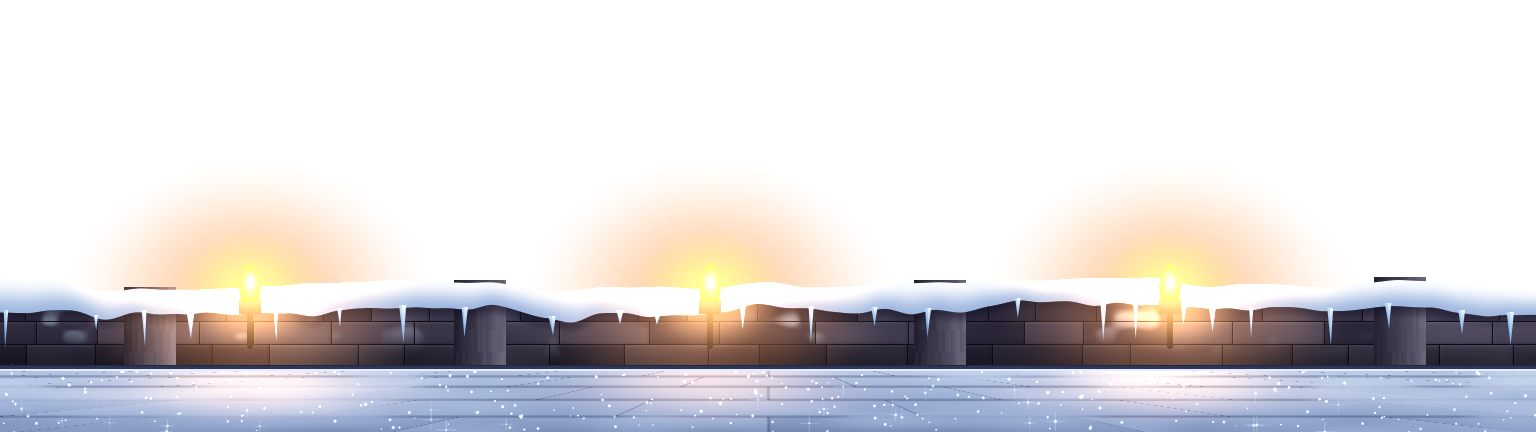
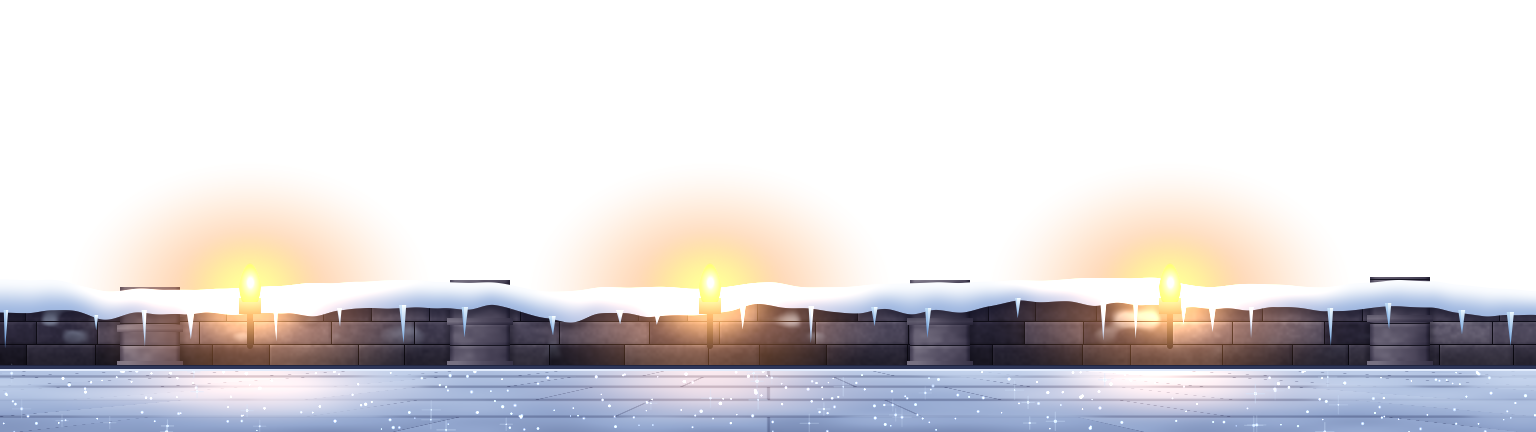
fix(stage1): shaded stone pillars and per-block wall variation
Pillars get cylindrical shading, ashlar courses with mortar, capstone and
plinth (the per-column hash caused vertical smearing). Wall blocks get wider
tone range, stronger bevel and grain. Update L9 doc for the layered stage1.

Claude-Session: https://claude.ai/code/session_01Y9XV58RY4sDZejHydTbcae

diff --git a/scripts/art/gen_stages.py b/scripts/art/gen_stages.py
@@ -699,11 +699,12 @@ def s1_quarry():
     wall = Courses(9, 23, 46, 100, FLOOR, 7)
     rock = Ramp([(0, (22, 20, 32)), (.35, (46, 42, 62)), (.7, (84, 78, 98)), (1, (136, 130, 146))])
     damp = FBM(72, [(150, 70, 0.6), (50, 24, 0.4)])
+    blkgrain = FBM(77, [(6, 5, 0.6), (3, 3, 0.4)])
     frost = FBM(73, [(70, 46, 0.5), (24, 16, 0.5)])
 
     def wfn(y, xa, xb):
         info = wall.row(y, xa, xb)
-        dn, fn_ = damp.row(y), frost.row(y)
+        dn, fn_, gg = damp.row(y), frost.row(y), blkgrain.row(y)
         rs, gs, bs = [], [], []
         ao = 0.62 + 0.38 * smoothstep(0, 40, FLOOR - y)
         for i, x in enumerate(range(xa, xb)):
@@ -714,20 +715,50 @@ def s1_quarry():
             if lt <= -1:
                 c = (14, 12, 22)
             else:
-                base = 0.28 + tone * 0.32 + lt * 0.22 + (dn[x] - 0.5) * 0.32
+                base = 0.2 + tone * 0.5 + lt * 0.3 + (dn[x] - 0.5) * 0.3 + (gg[x] - 0.5) * 0.16
                 c = rock(base)
                 fr = smoothstep(0.62, 0.8, fn_[x]) * (1 - smoothstep(top[x] + 20, top[x] + 70, y)) * 0.55
                 c = lerpc(c, (200, 220, 244), fr)
             rs.append(c[0] * ao), gs.append(c[1] * ao), bs.append(c[2] * ao)
         return rs, gs, bs
     L.draw(0, min(top) - 2, W, FLOOR, cov_below(top), sh_rows(wfn))
-    # buttresses (the snow cap below is drawn over their tops)
+    # pillars: cylindrical shaft, ashlar courses with per-course tone, projecting cap and plinth
+    pgrain = FBM(76, [(18, 12, 0.6), (7, 5, 0.4)])
     for bx in (150, 480, 940, 1400):
         y0 = int(top[bx]) - 8
-        L.draw(bx - 26, y0, bx + 26, FLOOR,
-               cov_rect(bx - 26, y0, bx + 26, FLOOR),
-               sh_px(lambda x, y, bx=bx: lerpc((26, 24, 40), (122, 116, 138),
-                                               clamp(0.5 + (x - bx) / 70.0 + (hash01(x // 3, y // 22, 4) - .5) * .12) ** 1.2)))
+        hw = 30
+        # soft contact shadow on the wall either side
+        L.draw(bx - hw - 8, y0 + 30, bx + hw + 8, FLOOR,
+               lambda y, xa, xb, bx=bx: [0.32 * (1 - smoothstep(hw, hw + 8, abs(x + 0.5 - bx))) for x in range(xa, xb)],
+               sh_flat((10, 9, 20)))
+
+        def pfn(y, xa, xb, bx=bx):
+            gr = pgrain.row(y)
+            k, yy = divmod(FLOOR - 1 - y, 22)
+            tone = hash01(k, bx, 12)
+            rs, gs, bs = [], [], []
+            for x in range(xa, xb):
+                u = (x + 0.5 - bx) / hw
+                shaft = math.sqrt(max(0.0, 1 - u * u))
+                lit = 0.5 + 0.5 * (-u * 0.55 + shaft * 0.6) - 0.1
+                val = 0.3 + 0.62 * clamp(lit) + (tone - 0.5) * 0.14 + (gr[x] - 0.5) * 0.2
+                if yy < 1:
+                    val = 0.02
+                elif yy >= 19:
+                    val += 0.1 * (yy - 18) / 3.0
+                elif yy < 4:
+                    val -= 0.08 * (4 - yy) / 3.0
+                val -= 0.22 * smoothstep(0.82, 1.0, abs(u))
+                c = rock(val)
+                rs.append(c[0]), gs.append(c[1]), bs.append(c[2])
+            return rs, gs, bs
+        L.draw(bx - hw, y0, bx + hw, FLOOR, cov_rect(bx - hw, y0, bx + hw, FLOOR), sh_rows(pfn))
+        # slim shadowed capstone under the snow and a plinth line at the foot
+        cy = int(top[bx]) + 30
+        for (yy0, yy1) in ((cy, cy + 7), (FLOOR - 7, FLOOR)):
+            L.draw(bx - hw - 3, yy0, bx + hw + 3, yy1, cov_rect(bx - hw - 3, yy0, bx + hw + 3, yy1),
+                   sh_px(lambda x, y, bx=bx, yy0=yy0: rock(
+                       0.4 + 0.5 * clamp(0.62 - (x - bx) / (2.0 * hw)) - 0.25 * clamp((y - yy0 - 3) / 4.0))))
     # snow cap with soft shadowed underside
     cap = FBM(74, [(80, 30, 0.6), (26, 12, 0.4)])
     capy = [t + 8 + 22 * c for t, c in zip(top, cap.row(40))]

diff --git a/docs/lanes/L9.md b/docs/lanes/L9.md
@@ -13,7 +13,7 @@ Each fighter lives in `Content/Fighters/<id>/<id>.contentbundle/` with a bundle 
 
 ## Stage
 
-`Content/Stages/stage1/` — **Glacier Forge Quarry** (`stage.json` + `background.png`, 384×216 indexed). Bounds in JSON are logical fight space for future app wiring.
+`Content/Stages/stage1/` — **Glacier Forge Quarry** (`stage.json` + three parallax layers `glacier_sky.png`, `glacier_forge.png`, `glacier_quarry.png`; 1536×432 truecolour at `texelScale` 2, generated by `scripts/art/gen_stages.py`). Bounds in JSON are logical fight space for future app wiring.
 
 ## Tests
 
